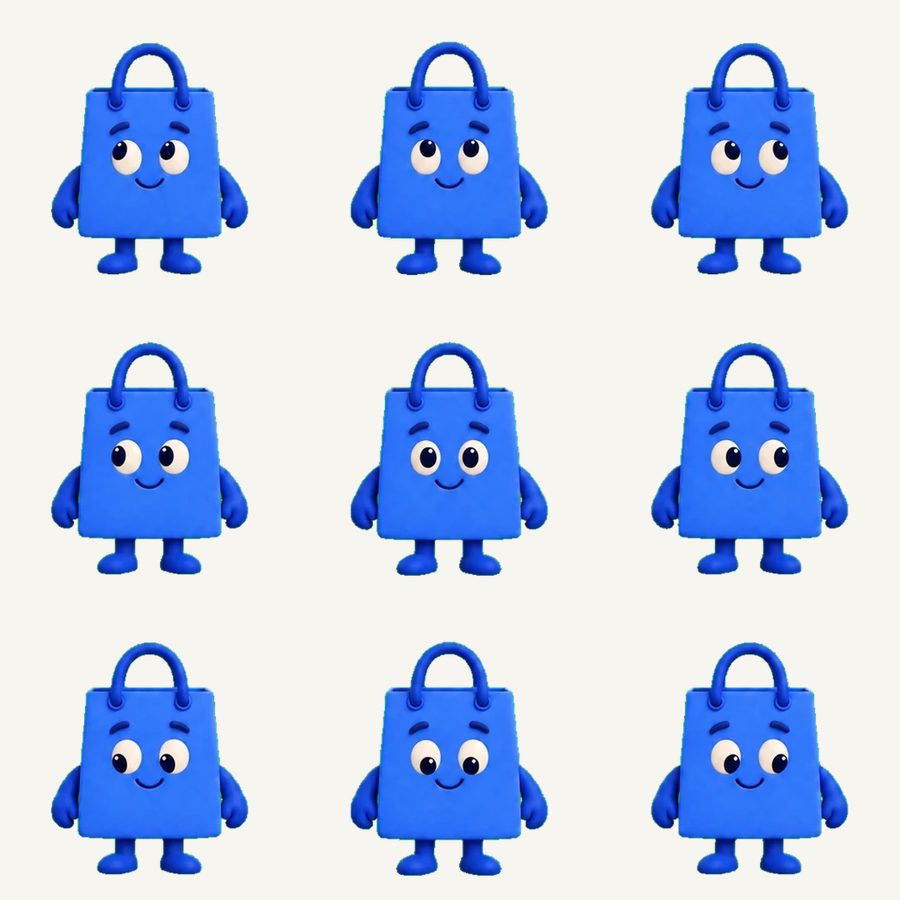
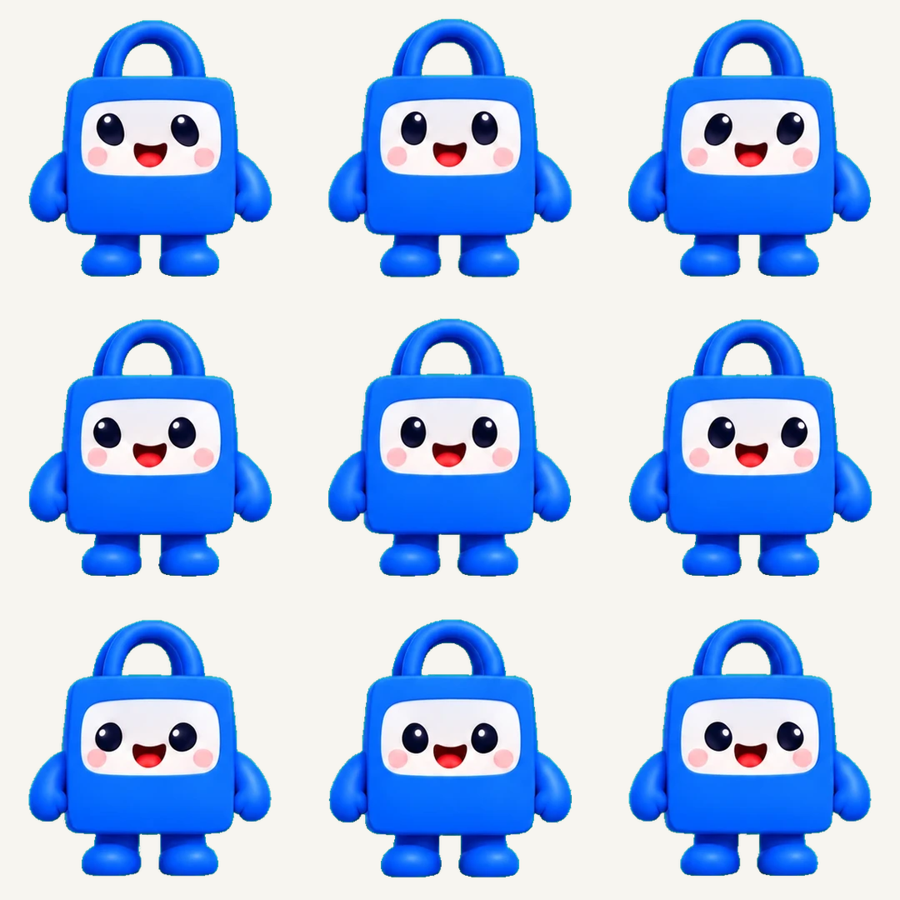
docs: rebuild the v2 handoff package for the new bag artwork
Replaces the artwork, previews and source sheets with the white-panel
bag, and matches the app's 88px (76px on phones) sizing and bubble
positions. HANDOFF.md now notes that the hover face is a cheerful
thinking face, that the eye movement is slight in this artwork, and
which checks were made at which size.

diff --git a/mascot-handoff-v2/request-mascot-launcher.module.css b/mascot-handoff-v2/request-mascot-launcher.module.css
@@ -113,15 +113,15 @@
 /* The bag has a margin inside its image cell, so the dots and bubble are placed
    against the artwork, not the cell edge. */
 .dotSmall {
-  top: 34px;
-  left: 10px;
+  top: 22px;
+  left: -3px;
   width: 7px;
   height: 7px;
 }
 
 .dotLarge {
-  top: 20px;
-  left: -5px;
+  top: 10px;
+  left: -17px;
   width: 12px;
   height: 12px;
   transition-delay: calc(var(--on) * 40ms);
@@ -133,8 +133,8 @@
 
 .thought {
   position: absolute;
-  top: -24px;
-  right: calc(100% + 6px);
+  top: -38px;
+  right: calc(100% + 18px);
   /* max-content: size to the text, not to the character it is anchored to. */
   width: max-content;
   display: flex;
@@ -242,11 +242,11 @@
 /* ---------- Phones (< 640px) ---------- */
 
 @media (max-width: 639px) {
-  /* The image cell has empty margins (17% right, 8% bottom). Offset the launcher
-     by those so the artwork itself sits 16px from the right and bottom. */
+  /* The image cell has empty margins (about 10% right, 8% bottom). Offset the
+     launcher by those so the artwork itself sits 16px from the right and bottom. */
   .wrapper {
-    right: -1px;
-    bottom: max(18px, env(safe-area-inset-bottom, 18px));
+    right: 9px;
+    bottom: max(20px, env(safe-area-inset-bottom, 20px));
   }
 
   /* Keep the halo inside the 16px page gutter. */
@@ -257,16 +257,16 @@
   /* The sprite sets its size inline; shrink it for phones. */
   .poseIdle > span,
   .poseActive > span {
-    width: 100px !important;
-    height: 100px !important;
+    width: 76px !important;
+    height: 76px !important;
   }
 
   .thought {
-    top: -20px;
-    right: calc(100% + 6px);
+    top: -32px;
+    right: calc(100% + 14px);
     gap: 10px;
-    /* never run off the left edge: viewport − left gutter − character − gap */
-    max-width: calc(100vw - 16px - 99px - 6px);
+    /* never run off the left edge: viewport − left gutter − right offset − character − gap */
+    max-width: calc(100vw - 16px - 9px - 76px - 14px);
     padding: 10px 10px 10px 14px;
     border-radius: 20px;
     white-space: normal;
@@ -288,15 +288,15 @@
   }
 
   .dotSmall {
-    top: 26px;
-    left: 7px;
+    top: 18px;
+    left: -3px;
     width: 6px;
     height: 6px;
   }
 
   .dotLarge {
-    top: 15px;
-    left: -5px;
+    top: 8px;
+    left: -13px;
     width: 10px;
     height: 10px;
   }

diff --git a/mascot-handoff-v2/BrizMascot.tsx b/mascot-handoff-v2/BrizMascot.tsx
@@ -28,7 +28,8 @@ export type MascotExpression = (typeof MASCOT_EXPRESSIONS)[number];
 export type MascotDirection = (typeof MASCOT_DIRECTIONS)[number];
 
 // The art has no sad face and no question-mark face, so thinking, confused and
-// no-results all show "puzzled". Replace the sheet to give them their own faces.
+// no-results all show "puzzled" — which in this sheet is a cheerful thinking face
+// with three dots. Replace the sheet to give them their own faces.
 const EXPRESSION_FACE: Record<MascotExpression, MascotFace> = {
   greeting: "smile",
   searching: "happy",
@@ -51,7 +52,7 @@ export interface BrizMascotProps {
   expression?: MascotExpression | MascotFace;
   /** Show one fixed eye direction. Omit both to follow --look-col / --look-row. */
   direction?: MascotDirection;
-  /** Width and height in px. The bag fills about 66% of the width and 70% of the height. */
+  /** Width and height in px. The bag fills about 81% of the width and 86% of the height. */
   size?: number;
   /** Folder the two atlases are served from. */
   assetBase?: string;
@@ -61,7 +62,7 @@ export interface BrizMascotProps {
 }
 
 // Bump when the artwork changes, so browsers drop the cached sheets.
-const ASSET_VERSION = "5";
+const ASSET_VERSION = "7";
 
 /**
  * Briz mascot v2: the shopping bag. One character in two 3×3 sprite atlases, nine
@@ -71,7 +72,7 @@ const ASSET_VERSION = "5";
 export const BrizMascot = memo(function BrizMascot({
   expression,
   direction,
-  size = 128,
+  size = 88,
   assetBase = "/mascots",
   className,
   title,

diff --git a/mascot-handoff-v2/RequestMascotLauncher.tsx b/mascot-handoff-v2/RequestMascotLauncher.tsx
@@ -10,7 +10,7 @@ import styles from "./request-mascot-launcher.module.css";
 /** Delay (s) before the launcher first appears, so the page can settle. */
 export const ENTRANCE_DELAY = 0.4;
 
-const MASCOT_SIZE = 128;
+const MASCOT_SIZE = 88;
 
 export interface RequestMascotLauncherProps {
   /** Fired on click, Enter or Space — open the Request a Product flow here. */

diff --git a/mascot-handoff-v2/HANDOFF.md b/mascot-handoff-v2/HANDOFF.md
@@ -1,8 +1,8 @@
 # Briz request mascot v2 — developer handoff
 
 A floating "Request a Product" launcher built around the Briz mascot: a blue
-shopping-bag character whose eyes follow the cursor and who looks puzzled, with
-a thought bubble, when hovered. It also speaks up on its own when the visitor
+shopping-bag character with a white face panel, whose eyes follow the cursor and
+who shows a thinking face, with a thought bubble, when hovered. It also speaks up on its own when the visitor
 goes quiet. This folder is a self-contained copy of the prototype: drop it into
 a React project and it runs.
 
@@ -19,8 +19,8 @@ eyes that follow the cursor, unprompted hints and a larger hit area.
 | `BrizMascot.tsx` | The character: shows one cell of a sprite atlas. Usable on its own. |
 | `useCursorLook.ts` | Hook that points the mascot's eyes at the pointer. |
 | `useAttentionHint.ts` | Hook that decides when the thought shows without hovering. |
-| `assets/briz-v2-directions.webp` | 3×3 atlas, nine eye directions (140 KB). |
-| `assets/briz-v2-reactions.webp` | 3×3 atlas, nine faces (148 KB). |
+| `assets/briz-v2-directions.webp` | 3×3 atlas, nine eye directions (169 KB). |
+| `assets/briz-v2-reactions.webp` | 3×3 atlas, nine faces (180 KB). |
 | `preview-directions.png`, `preview-reactions.png` | The two atlases on a plain background, for reference. |
 | `source/` | The cleaned source sheets and the script used to prepare them. Only needed to rebuild the art. |
 
@@ -56,8 +56,8 @@ Render it once, near the root layout. It positions itself (`position: fixed`).
 | State | Trigger | What the user sees |
 | --- | --- | --- |
 | Entrance | Page load, after 0.4s | Launcher springs in (opacity 0→1, scale 0.85→1, y 12→0). Once only. |
-| Idle | Default | The bag alone. His eyes follow the pointer, snapping between nine directions. |
-| Engaged | Pointer hover (including a 22px halo around him), or keyboard focus | Cross-fade to the puzzled face; two thought dots pop; bubble grows from its lower-right corner; headline, description and arrow rise in. Whole launcher lifts 3px. |
+| Idle | Default | The bag alone. His eyes follow the pointer across nine directions (the movement in this artwork is subtle). |
+| Engaged | Pointer hover (including a 22px halo around him), or keyboard focus | Cross-fade to the thinking face (three dots); two thought dots pop; bubble grows from its lower-right corner; headline, description and arrow rise in. Whole launcher lifts 3px. |
 | Leave | Pointer out / blur | Everything reverses from wherever it is. No exit delay. |
 | Press | Mouse down / touch | Bubble scales to 0.96, launcher to 0.985. |
 | Activate | Click, Enter, Space | `onOpen()` |
@@ -82,11 +82,11 @@ looks straight ahead.
 
 | | Desktop | Phone (< 640px) |
 | --- | --- | --- |
-| Launcher position | `right: 24px; bottom: 24px` | `right: -1px; bottom: max(18px, safe-area)` |
-| Where the artwork lands | about 46px from the right, 24px from the bottom | 16px from the right, 16px from the bottom |
-| Character box | 128 × 128px (the bag is about 85 × 90px inside it) | 100 × 100px |
+| Launcher position | `right: 24px; bottom: 24px` | `right: 9px; bottom: max(20px, safe-area)` |
+| Where the artwork lands | about 32px from the right, 21px from the bottom | 16px from the right, 16px from the bottom |
+| Character box | 88 × 88px (the bag is about 71 × 76px inside it) | 76 × 76px (bag about 61 × 65px) |
 | Hover / tap halo | 22px beyond the box on every side | 14px |
-| Bubble | up and to the left of the bag, 6px from the box | same, wraps, never wider than the viewport allows |
+| Bubble | up and to the left of the bag, 18px from the box | same at 14px, wraps, never wider than the viewport allows |
 | Bubble radius / padding | 26px / 14px 14px 14px 20px | 20px / 10px 10px 10px 14px |
 | Headline | 15/20px, 600 | 14/18px, 600 |
 | Description | 12.5/16px, 450 | 12/15px, 450 |
@@ -94,10 +94,11 @@ looks straight ahead.
 | z-index | 900 | 900 |
 
 The character box is larger than the bag because each sprite cell keeps empty
-room around the artwork: 17% left and right, about 8% underneath, and space
-above the handle for floating symbols (`!`, hearts, dots). That is why the phone
-position looks odd (`right: -1px`): it offsets the launcher by those margins so
-the visible bag sits 16px from the edges. Desktop has not been corrected the
+room around the artwork: about 10% left and right, 8% underneath and 6% above,
+which is also where the floating symbols (`!`, hearts, dots) sit, beside the
+handle. That is why the phone position is not simply 16px (`right: 9px`,
+`bottom: 20px`): it offsets the launcher by those margins so the visible bag
+sits 16px from the edges. Desktop has not been corrected the
 same way. If the art changes, retune `.wrapper` (phones), `.dotSmall`,
 `.dotLarge` and `.thought`.
 
@@ -186,6 +187,8 @@ closest face:
 
 `love` and `cool` are only reachable by their own names. There is **no sad face
 and no question-mark face**, so thinking, confused and no-results look the same.
+The face labelled `puzzled` is in fact cheerful in this artwork: a small smile,
+eyes glancing up, three dots. It reads as "let me think", not as confusion.
 A real "no results" screen needs a new sheet with a sad face; update
 `MASCOT_FACES` and `EXPRESSION_FACE` in `BrizMascot.tsx` to match it.
 
@@ -272,25 +275,28 @@ and WebP: Chrome/Edge 104+, Safari 14.1+, Firefox 85+.
 
 ## Known gaps — this is a prototype
 
-- **Checked in the prototype app:** idle and hover states at desktop width; the
-  idle hint firing at about 8s; on a 375px touch viewport, the scroll hint
-  appearing after 0.9s and hiding 4.5s later; the bag landing 17px from the
-  right and bottom edges on phones.
-- **Checked in this standalone copy:** it type-checks, lints and renders; the
-  bubble copy is correct; click calls `onOpen`.
-- **Not checked:** the hover and hint animations in this standalone copy (the
-  preview was in the background, where hints are deliberately suppressed); the
-  25s repeat and the three-hint cap; keyboard focus; a real phone.
+- **Checked in the prototype app, at the previous 108px size:** idle and hover
+  states at desktop width; on a 375px touch viewport, the scroll hint appearing
+  with the bubble on screen and the bag landing 17px from the right and 19px
+  from the bottom.
+- **Checked earlier with the previous bag artwork:** the idle hint firing at
+  about 8s, and the scroll hint appearing after 0.9s and hiding 4.5s later.
+- **Checked in this standalone copy:** it type-checks, lints and serves.
+- **Not checked:** the current 88px / 76px sizing on screen (positions were
+  scaled from the verified 108px layout); the hover and hint animations in this
+  standalone copy; the 25s repeat and the three-hint cap; keyboard focus; a
+  real phone.
 - **No automated tests** for this component.
 - **Three app expressions share one face** (see Faces and expression names).
 - **Hints are per page load**, not per visitor or session. Whether they should
   be remembered, and how often they may repeat, is a product decision; the
   original brief warned against a widget that feels like it is begging.
 - **Reduced motion does not disable hints**, only movement.
-- **Eye movement snaps** between nine poses; there are no in-between frames.
+- **Eye movement is barely visible** in this artwork: the pupils shift only
+  slightly between the nine poses, so "follows the cursor" is easy to miss.
 - **The halo blocks clicks** on anything directly underneath its 22px ring, and
   on phones it extends past the screen edge.
-- **Both atlases load on first render** (about 290 KB together), including the
+- **Both atlases load on first render** (about 350 KB together), including the
   faces sheet that is only seen on hover or hint. Preload or lazy-load as fits.
 - **Touch detection** uses `matchMedia("(hover: none)")`. Hybrid devices report
   hover and get the desktop behaviour.
